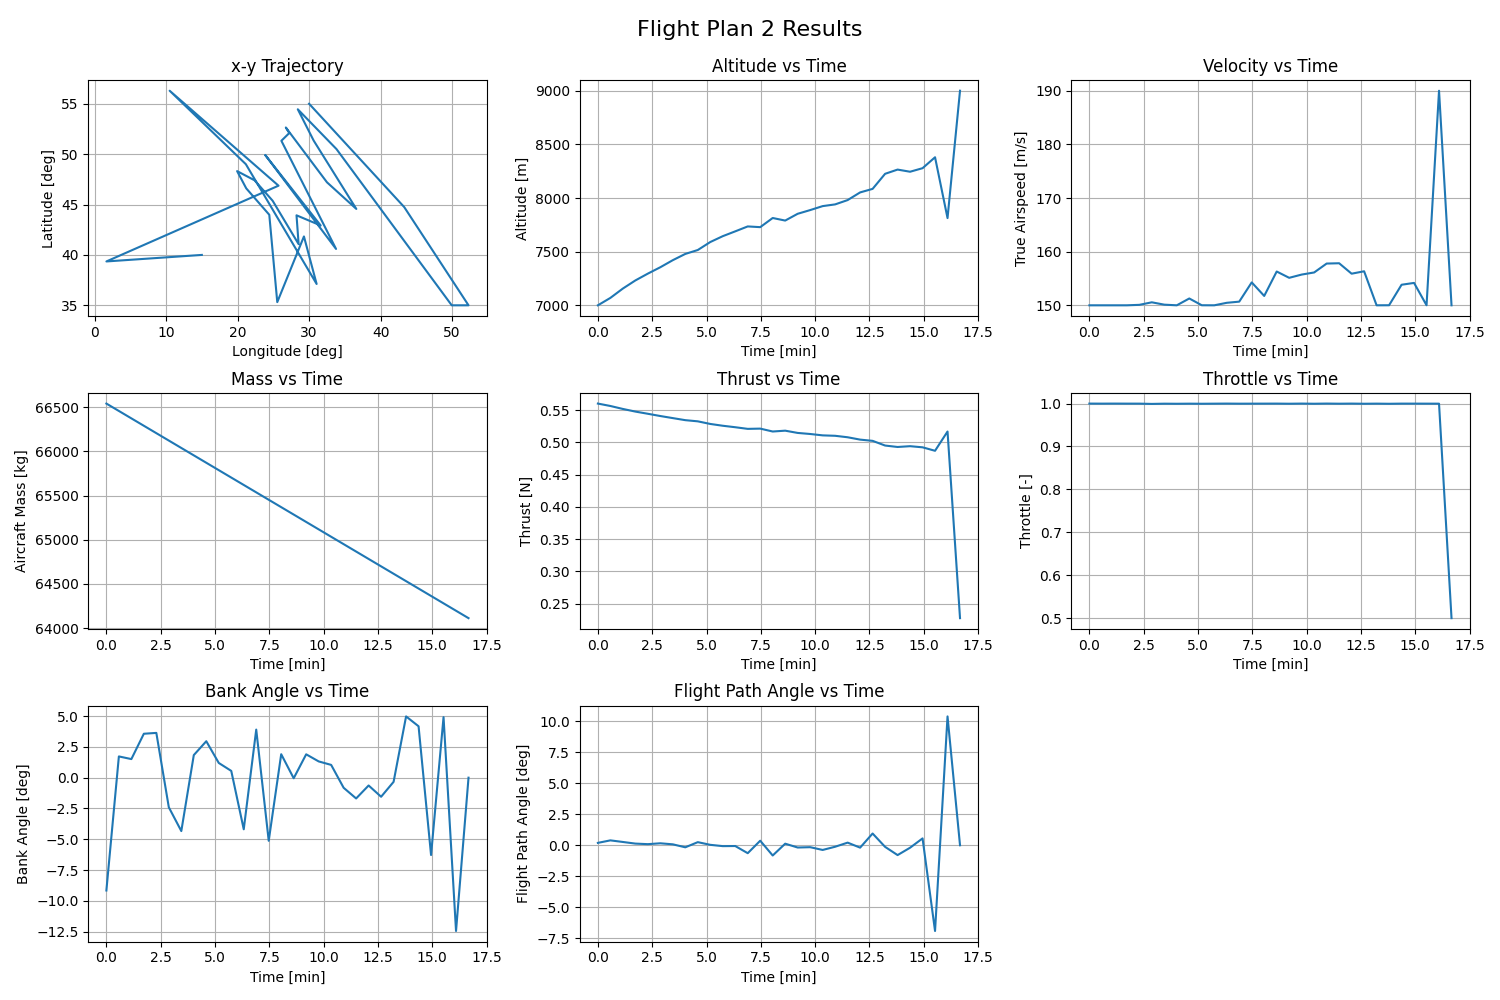
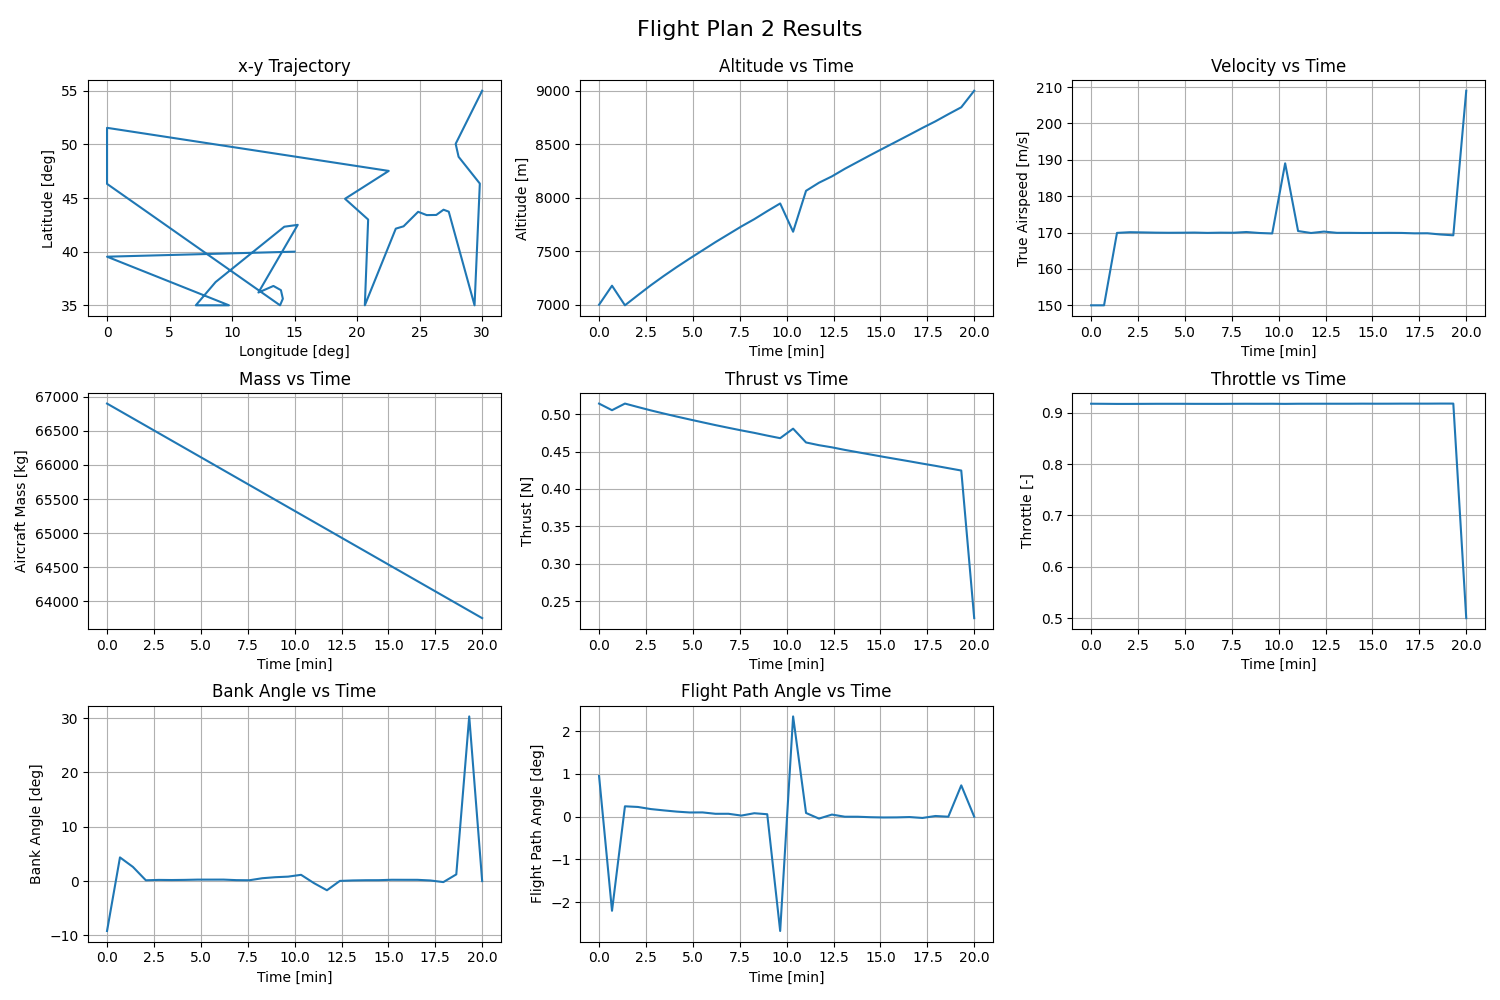
pmp refix

diff --git a/PMP.py b/PMP.py
@@ -103,70 +103,38 @@ class DirectCollocation:
         
     def setup_optimization(self):
         n = self.n_nodes
-        
-        # Decision variables per node: 6 states + 3 controls
-        n_vars = n * (6 + 3) + 1  # +1 for final time
-        
-        # Initial guess
+        n_vars = n * (6 + 3) + 1
         x_guess = np.zeros(n_vars)
-        
-        # Set initial guess for states (linear interpolation from initial to target)
+
         for i in range(n):
-            # States (linearly interpolated from x0 to xf)
             idx_start = i * 9
             alpha = i / (n - 1)
-            for j in range(3):  # For x, y, h
+            for j in range(3):
                 x_guess[idx_start + j] = (1 - alpha) * self.x0[j] + alpha * self.xf[j]
-            
-            # Velocity - constant
             x_guess[idx_start + 3] = self.x0[3]
-            
-            # Heading angle - constant
             x_guess[idx_start + 4] = self.x0[4]
-            
-            # Mass - linearly decreasing (assume 5% reduction)
             x_guess[idx_start + 5] = self.x0[5] * (1 - 0.05 * alpha)
-            
-            # Controls (reasonable initial values)
-            x_guess[idx_start + 6] = 0.0  # gamma
-            x_guess[idx_start + 7] = 0.0  # mu
-            x_guess[idx_start + 8] = 0.5  # delta
-        
-        # Final time
+            x_guess[idx_start + 6] = 0.0
+            x_guess[idx_start + 7] = 0.0
+            x_guess[idx_start + 8] = 0.5
+
         x_guess[-1] = self.tf_guess
-        
-        # Bounds for variables
+
         bounds = []
-        
-        # State bounds
         for i in range(n):
-            # Position bounds (wide)
-            bounds.append((0, 60))  # longitude
-            bounds.append((35, 60))  # latitude
-            
-            # Altitude bounds
-            bounds.append((5000, 12000))  # meters
-            
-            # Velocity bounds
-            bounds.append((150, 300))  # m/s
-            
-            # Heading bounds
-            bounds.append((-2*np.pi, 2*np.pi))  # radians
-            
-            # Mass bounds
-            bounds.append((self.x0[5] * 0.7, self.x0[5]))  # kg
-            
-            # Control bounds
-            bounds.append(self.gamma_bounds)  # gamma
-            bounds.append(self.mu_bounds)     # mu
-            bounds.append(self.delta_bounds)  # delta
-        
-        # Final time bounds
-        bounds.append((1000, 10000))  # seconds
-        
-        # Define constraints
-        n_constraints = 6 * (n-1) + 3  # Dynamics + terminal constraints
-        
+            bounds.append((0, 60))
+            bounds.append((35, 60))
+            bounds.append((5000, 12000))
+            bounds.append((150, 300))
+            bounds.append((-2*np.pi, 2*np.pi))
+            bounds.append((self.x0[5] * 0.7, self.x0[5]))
+            bounds.append(self.gamma_bounds)
+            bounds.append(self.mu_bounds)
+            bounds.append(self.delta_bounds)
+
+        bounds.append((500, 5000))  # tf sınırı gevşetildi
+
+        n_constraints = 6 * (n-1) + 3
         return x_guess, bounds, n_constraints
     
     def objective_function(self, x):
@@ -174,15 +142,58 @@ class DirectCollocation:
         tf = x[-1]
         dt = tf / (n - 1)
 
-        cost = 0.05 * tf
+        cost = 0.0
+        delta_sum = 0.0
 
         for i in range(n-1):
             idx = i * 9
             m_i = x[idx + 5]
             m_next = x[idx + 9 + 5]
             delta_i = x[idx + 8]
-            cost += 0.05 * (m_i - m_next)
+            psi_i = x[idx + 4]
+            psi_next = x[idx + 9 + 4]
+            v_i = x[idx + 3]
+
+            fuel_cost = m_i - m_next
+            cost += 1.0 * fuel_cost
             cost += 10.0 * (1.0 - delta_i)**2
+            cost += 0.01 * (v_i - 170)**2
+
+            if delta_i > 0.9:
+                cost += 20.0 * (delta_i - 0.9)**2
+
+            dpsi = psi_next - psi_i
+            cost += 5.0 * dpsi**2
+
+            delta_sum += delta_i
+
+        for i in range(n-2):
+            idx_i = i * 9
+            idx_ip1 = (i + 1) * 9
+
+            gamma_diff = x[idx_i + 6] - x[idx_ip1 + 6]
+            mu_diff = x[idx_i + 7] - x[idx_ip1 + 7]
+            delta_diff = x[idx_i + 8] - x[idx_ip1 + 8]
+
+            cost += 5.0 * (gamma_diff**2 + mu_diff**2 + delta_diff**2)
+
+        delta_mean = delta_sum / (n - 1)
+        if delta_mean > 0.8:
+            cost += 100.0 * (delta_mean - 0.8)**2
+
+        cost += 0.01 * tf
+
+        min_tf = 1200
+        if tf < min_tf:
+            cost += 100.0 * (min_tf - tf)**2
+
+        # Midway waypoint penalty
+        mid_idx = (n//2) * 9
+        x_mid = x[mid_idx]
+        y_mid = x[mid_idx + 1]
+        x_target = (self.x0[0] + self.xf[0]) / 2
+        y_target = (self.x0[1] + self.xf[1]) / 2
+        cost += 10.0 * ((x_mid - x_target)**2 + (y_mid - y_target)**2)
 
         return cost
     
